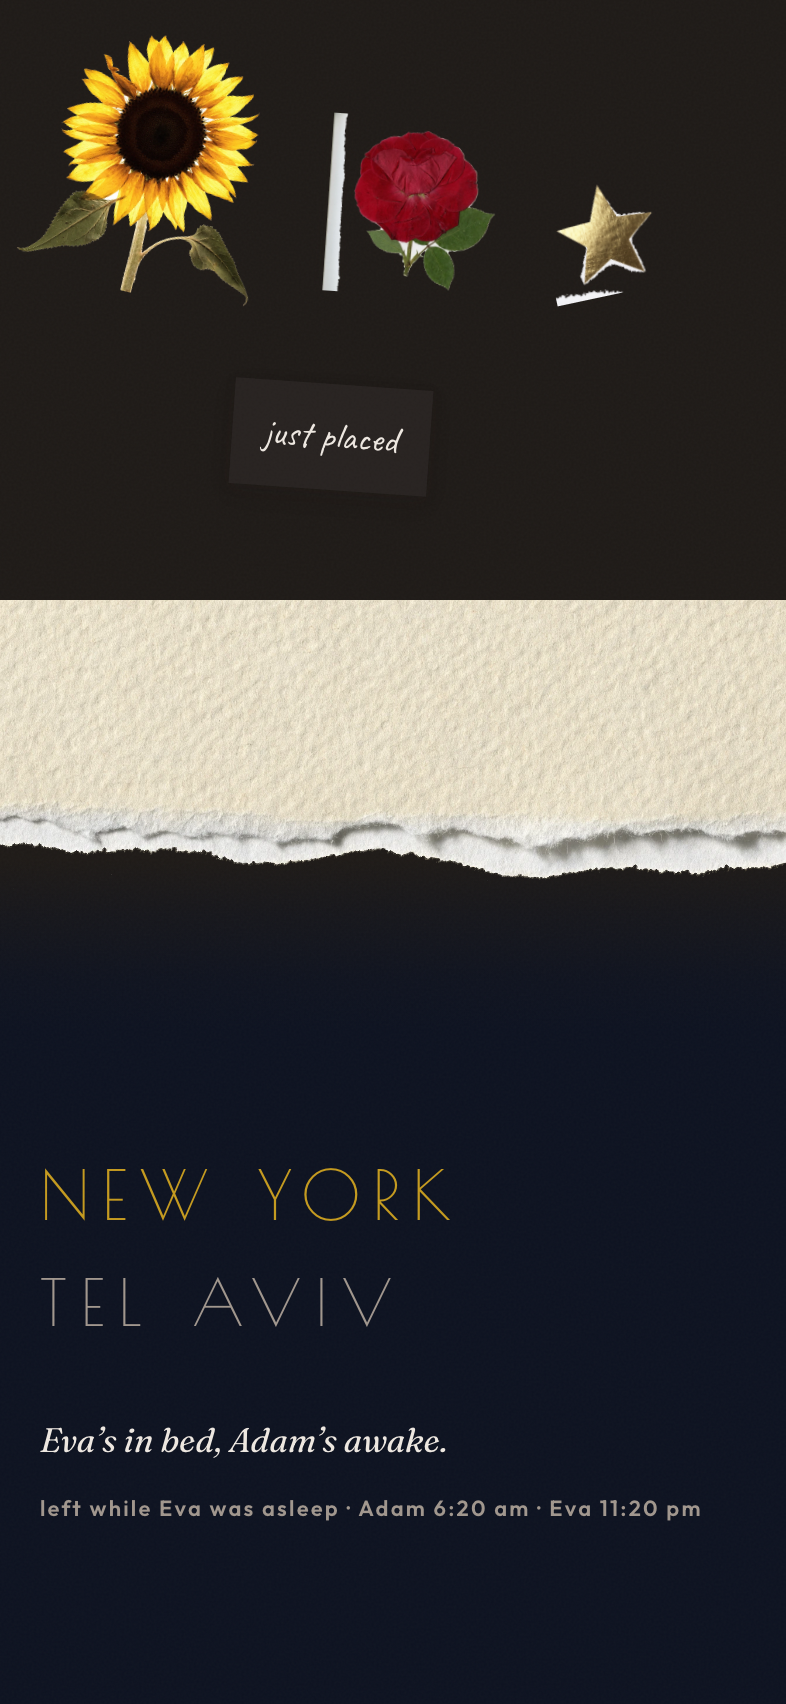
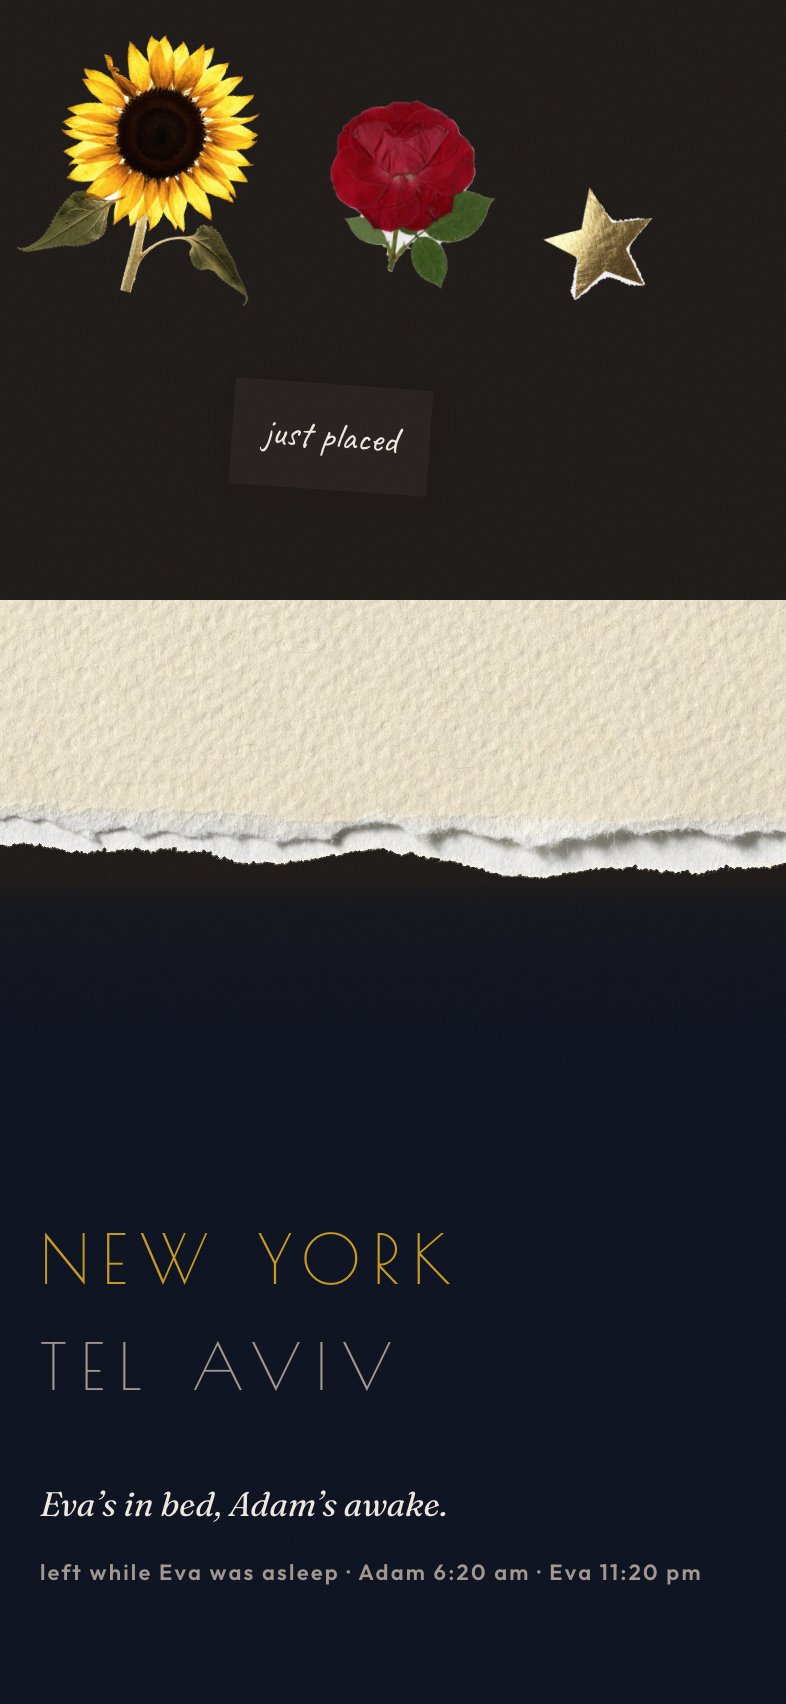
fix(materials): falloff shaped against pixels; rose and star cropped clean
The falloff is now asymmetric, chosen from four screenshot geometries
in both modes: steep under the fibre (0 to 0.6 over ~15px — by day
every semi-transparent pixel below the tear leaks page-light and
reads as fog) then long into the deep end (~90px to night-sky — by
night the slow deepening is what gives the sky distance). Default
height 256. Light stays on the torn lip; straight-to-dark read as a
mask in every capture. The two rejected directions are committed as
wave0-day-seam-falloff-at-tear and wave0-*-seam-falloff-long.

The rose's opaque white backing bar (columns 0-141, a scan edge that
survived keying) and the star's bottom-left sliver are cropped out of
the WebPs by alpha/chroma measurement, not masked in CSS. The docs/
source copies still carry them — Phase 0b should fix upstream.

Canonical six re-captured at 393x852 with the final geometry.

diff --git a/apps/web/components/materials/Seam.tsx b/apps/web/components/materials/Seam.tsx
@@ -49,9 +49,9 @@ export interface SeamProps {
   /**
    * Total height in pixels: the fibre strip at its natural aspect
    * (~37% of render width — ~145px at 393px) plus the falloff below
-   * it. The default gives the tear an ~80px falloff at phone width;
+   * it. The default gives the deep end ~110px of run at phone width;
    * anything under ~180 starts cropping the tear itself.
-   * @default 224
+   * @default 256
    */
   height?: number;
   className?: string;
@@ -64,16 +64,27 @@ const FIBRE: Record<SeamVariant, { src: string; width: number; height: number }>
 };
 
 /**
- * Falloff stops, as fractions of the container at the 393px baseline.
- * Measured from the coldpress alpha channel: solid paper ends at 83%
- * of the strip, fibre is gone by 95% — at height 224 that is ~54% and
- * ~62% of the container. Darkness starts under the lit fibre (58%),
- * not at the tear line.
+ * Falloff stops, as fractions of the container at the 393px baseline
+ * (height 256; the fibre tips land at ~54%, measured from the
+ * coldpress alpha channel). The shape is asymmetric on purpose, and
+ * it was chosen against pixels, not by argument — four geometries
+ * were screenshot in both modes:
+ *
+ *   - The ramp under the fibre is STEEP (0 → 0.6 over ~15px): by day
+ *     the canvas is bright, and every semi-transparent pixel below
+ *     the tear leaks page-light into the window — a slow start reads
+ *     as fog, not depth.
+ *   - The deep end is LONG (0.6 → night-sky over ~90px): by night
+ *     both sides are dark, and the slow deepening is what gives the
+ *     sky distance. A short deep end reads as a colour block.
+ *
+ * The fibre itself stays inside the transparent zone — light remains
+ * on the torn lip. Straight-to-dark read as a mask in every capture.
  */
 const FALLOFF =
-  "linear-gradient(to bottom, rgb(13 18 32 / 0) 0%, rgb(13 18 32 / 0) 58%, rgb(13 18 32 / 0.45) 70%, rgb(13 18 32 / 0.85) 84%, var(--night-sky) 96%)";
+  "linear-gradient(to bottom, rgb(13 18 32 / 0) 0%, rgb(13 18 32 / 0) 54%, rgb(13 18 32 / 0.6) 60%, rgb(13 18 32 / 0.8) 76%, var(--night-sky) 95%)";
 
-export function Seam({ variant = "coldpress", height = 224, className }: SeamProps) {
+export function Seam({ variant = "coldpress", height = 256, className }: SeamProps) {
   const fibre = FIBRE[variant];
 
   return (
